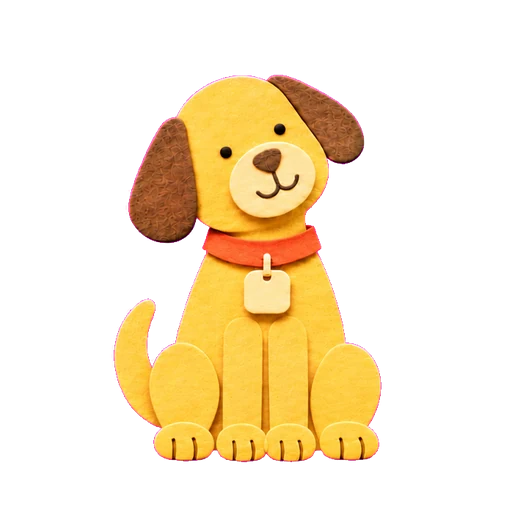
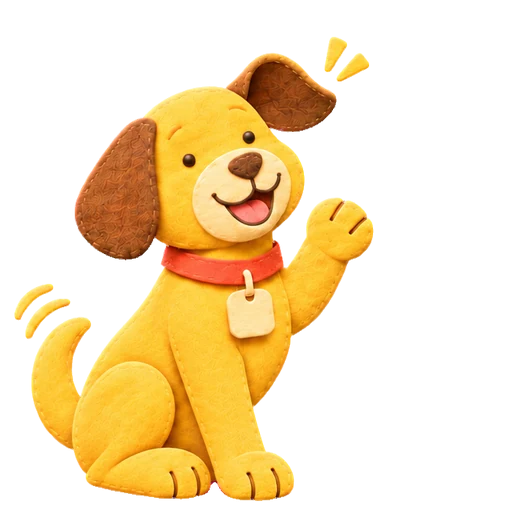
0.77.6: the guide as a felt plush, with clean edges
The art director redrew the three gestures as a plush of felt with
volume and seams, glad, with the anatomy of a real dog: the front legs
come down from the shoulders and the raised paw from a shoulder. Its
edges no longer keep the magenta of the background it was cut from.

diff --git a/version.php b/version.php
@@ -25,8 +25,8 @@
 defined('MOODLE_INTERNAL') || die();
 
 $plugin->component = 'local_oksigeniaeguahe';
-$plugin->version   = 2026117007;
-$plugin->release   = '0.77.5';
+$plugin->version   = 2026117008;
+$plugin->release   = '0.77.6';
 $plugin->maturity  = MATURITY_ALPHA;
 $plugin->requires  = 2024100700; // Moodle 4.5, the oldest branch that still gets security fixes.
 $plugin->supported = [405, 503];
